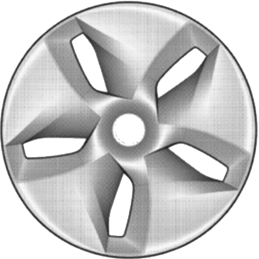
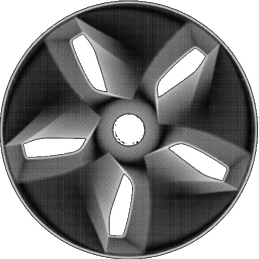
updates

diff --git a/model3cost.html b/model3cost.html
@@ -6,9 +6,6 @@ published: true
 ---
 <style>
 
-/* Color palette */
-
-
  :root {
    --form-bg-color: white;
 	 --font-color: #474747;
@@ -48,7 +45,6 @@ input.radio {
 }
 
 circle {
-	margin:5px;
 	transition: all .5s ease-in-out;
 	&:hover, &:focus, &:active {
 		border: 1px solid rgba($font-color,.5);
@@ -78,15 +74,14 @@ circle {
 	}
 }
 
-ul {
+#wheelChoice {
 	width:100%;
 	margin: 5px auto;
+	display: block;
 }
 
 li {
-	width: 50%;
-	min-width: 100px;
-	margin: 0 auto;
+	width: 45%;
 	list-style-type: none;
 	float:left;
 }
@@ -98,9 +93,38 @@ li p {
 li img {
 	display: block;
 	margin: auto;
+	max-width: 100px;
 }
 
+
 </style>
+
+<script>
+
+	var car = {"color":"black","wheel":"aero"};
+
+	function updateCar(option,value) {
+
+		if(option == "color"){
+			car.color = value;
+		} else {
+			car.wheel = value;
+		}
+
+
+		console.log(car.color + '-' + car.wheel +'.png');
+
+		//set car
+		document.getElementById('carImg').src="/images/m3/" + car.color + '-' + car.wheel +'.png';
+
+	}
+
+	function	updateColorChoice(color){
+		document.getElementById('colorChoiceLabel').innerHTML=color;
+	}
+
+
+</script>
 
 <form id="model3Cost">
 
@@ -166,27 +190,27 @@ li img {
 			<svg height="100" width="350">
 				<!-- black -->
   			<circle cx="25" cy="50" r="25" fill="#0A0B0B" stroke="#ACAEB0" stroke-width="1px"
-					onclick="document.getElementById('colorChoiceLabel').innerHTML='Solid Black'"
+					onclick="updateColorChoice('Solid Black'); updateCar('color','black');"
 				/>
 				<!-- midnight -->
-				<circle cx="80" cy="50" r="25" fill="#2F2E35" stroke="#ACAEB0" stroke-width="1px"
-					onclick="document.getElementById('colorChoiceLabel').innerHTML='Midnight Silver Metallic +$1,000'"
+				<circle cx="85" cy="50" r="25" fill="#2F2E35" stroke="#ACAEB0" stroke-width="1px"
+					onclick="updateColorChoice('Midnight Silver Metallic +$1,000'); updateCar('color','midnight');"
 				/>
 				<!-- blue -->
-				<circle cx="135" cy="50" r="25" fill="#111E45" stroke="#ACAEB0" stroke-width="1px"
-					onclick="document.getElementById('colorChoiceLabel').innerHTML='Deep Blue Metallic +$1,000'"
+				<circle cx="145" cy="50" r="25" fill="#111E45" stroke="#ACAEB0" stroke-width="1px"
+					onclick="updateColorChoice('Deep Blue Metallic +$1,000'); updateCar('color','blue');"
 				/>
 				<!-- silver -->
-				<circle cx="190" cy="50" r="25" fill="#ACAEB0"
-					onclick="document.getElementById('colorChoiceLabel').innerHTML='Silver Metallic +$1,000'"
+				<circle cx="200" cy="50" r="25" fill="#ACAEB0"
+					onclick="updateColorChoice('Silver Metallic +$1,000'); updateCar('color','silver');"
 				/>
 				<!-- white -->
-				<circle cx="245" cy="50" r="25" fill="#FDFEFE" stroke="#ACAEB0" stroke-width="1px"
-					onclick="document.getElementById('colorChoiceLabel').innerHTML='Pearl White Multi-Coat +$1,000'"
+				<circle cx="255" cy="50" r="25" fill="#FDFEFE" stroke="#ACAEB0" stroke-width="1px"
+					onclick="updateColorChoice('Pearl White Multi-Coat +$1,000'); updateCar('color','white');"
 				/>
 				<!-- red -->
-				<circle cx="300" cy="50" r="25" fill="#BE3844"
-					onclick="document.getElementById('colorChoiceLabel').innerHTML='Red Multi-Coat +$1,000'"
+				<circle cx="315" cy="50" r="25" fill="#BE3844"
+					onclick="updateColorChoice('Red Multi-Coat +$1,000'); updateCar('color','red');"
 				/>
 			</svg>
 
@@ -194,22 +218,22 @@ li img {
 		</div>
 
 		<div id="wheelChoice">
-			<p class="choiceHeader">Select Wheel</p>
+			<p class="choiceHeader">Wheel</p>
 			<!-- <div id="wheelChoiceLabel">18" Aero</div> -->
 			<ul>
-				<li>
+				<li id="aero">
 					<img
 						src="/images/m3/aero-draw.png"
-						onclick="document.getElementById('wheelChoiceLabel').innerHTML='18in. Aero'"
-						style="margin:10px; width:100px"
+						onclick=updateCar('wheel','aero');
+						style="width:100%"
 					/>
 					<p>18" Aero</p>
 				</li>
-				<li>
+				<li id="sport">
 					<img
 						src="/images/m3/sport-draw.png"
-						onclick="document.getElementById('wheelChoiceLabel').innerHTML='19in. Sport +$1,500'"
-						style="margin:10px; width:100px"
+						onclick="updateCar('wheel','sport')";
+						style="width:100%"
 					/>
 					<p>19" Sport</p>
 				</li>
@@ -218,7 +242,7 @@ li img {
 
 		<div id="previewImage">
 			<p class="choiceHeader">Your Car</p>
-			<img src="/images/m3/black-aero.png"
+			<img id="carImg" src="/images/m3/black-aero.png"
 				style="width:95%; max-width:850px; margin:5px; background-color:#fff; padding:5px;"
 			/>
 		</div>
